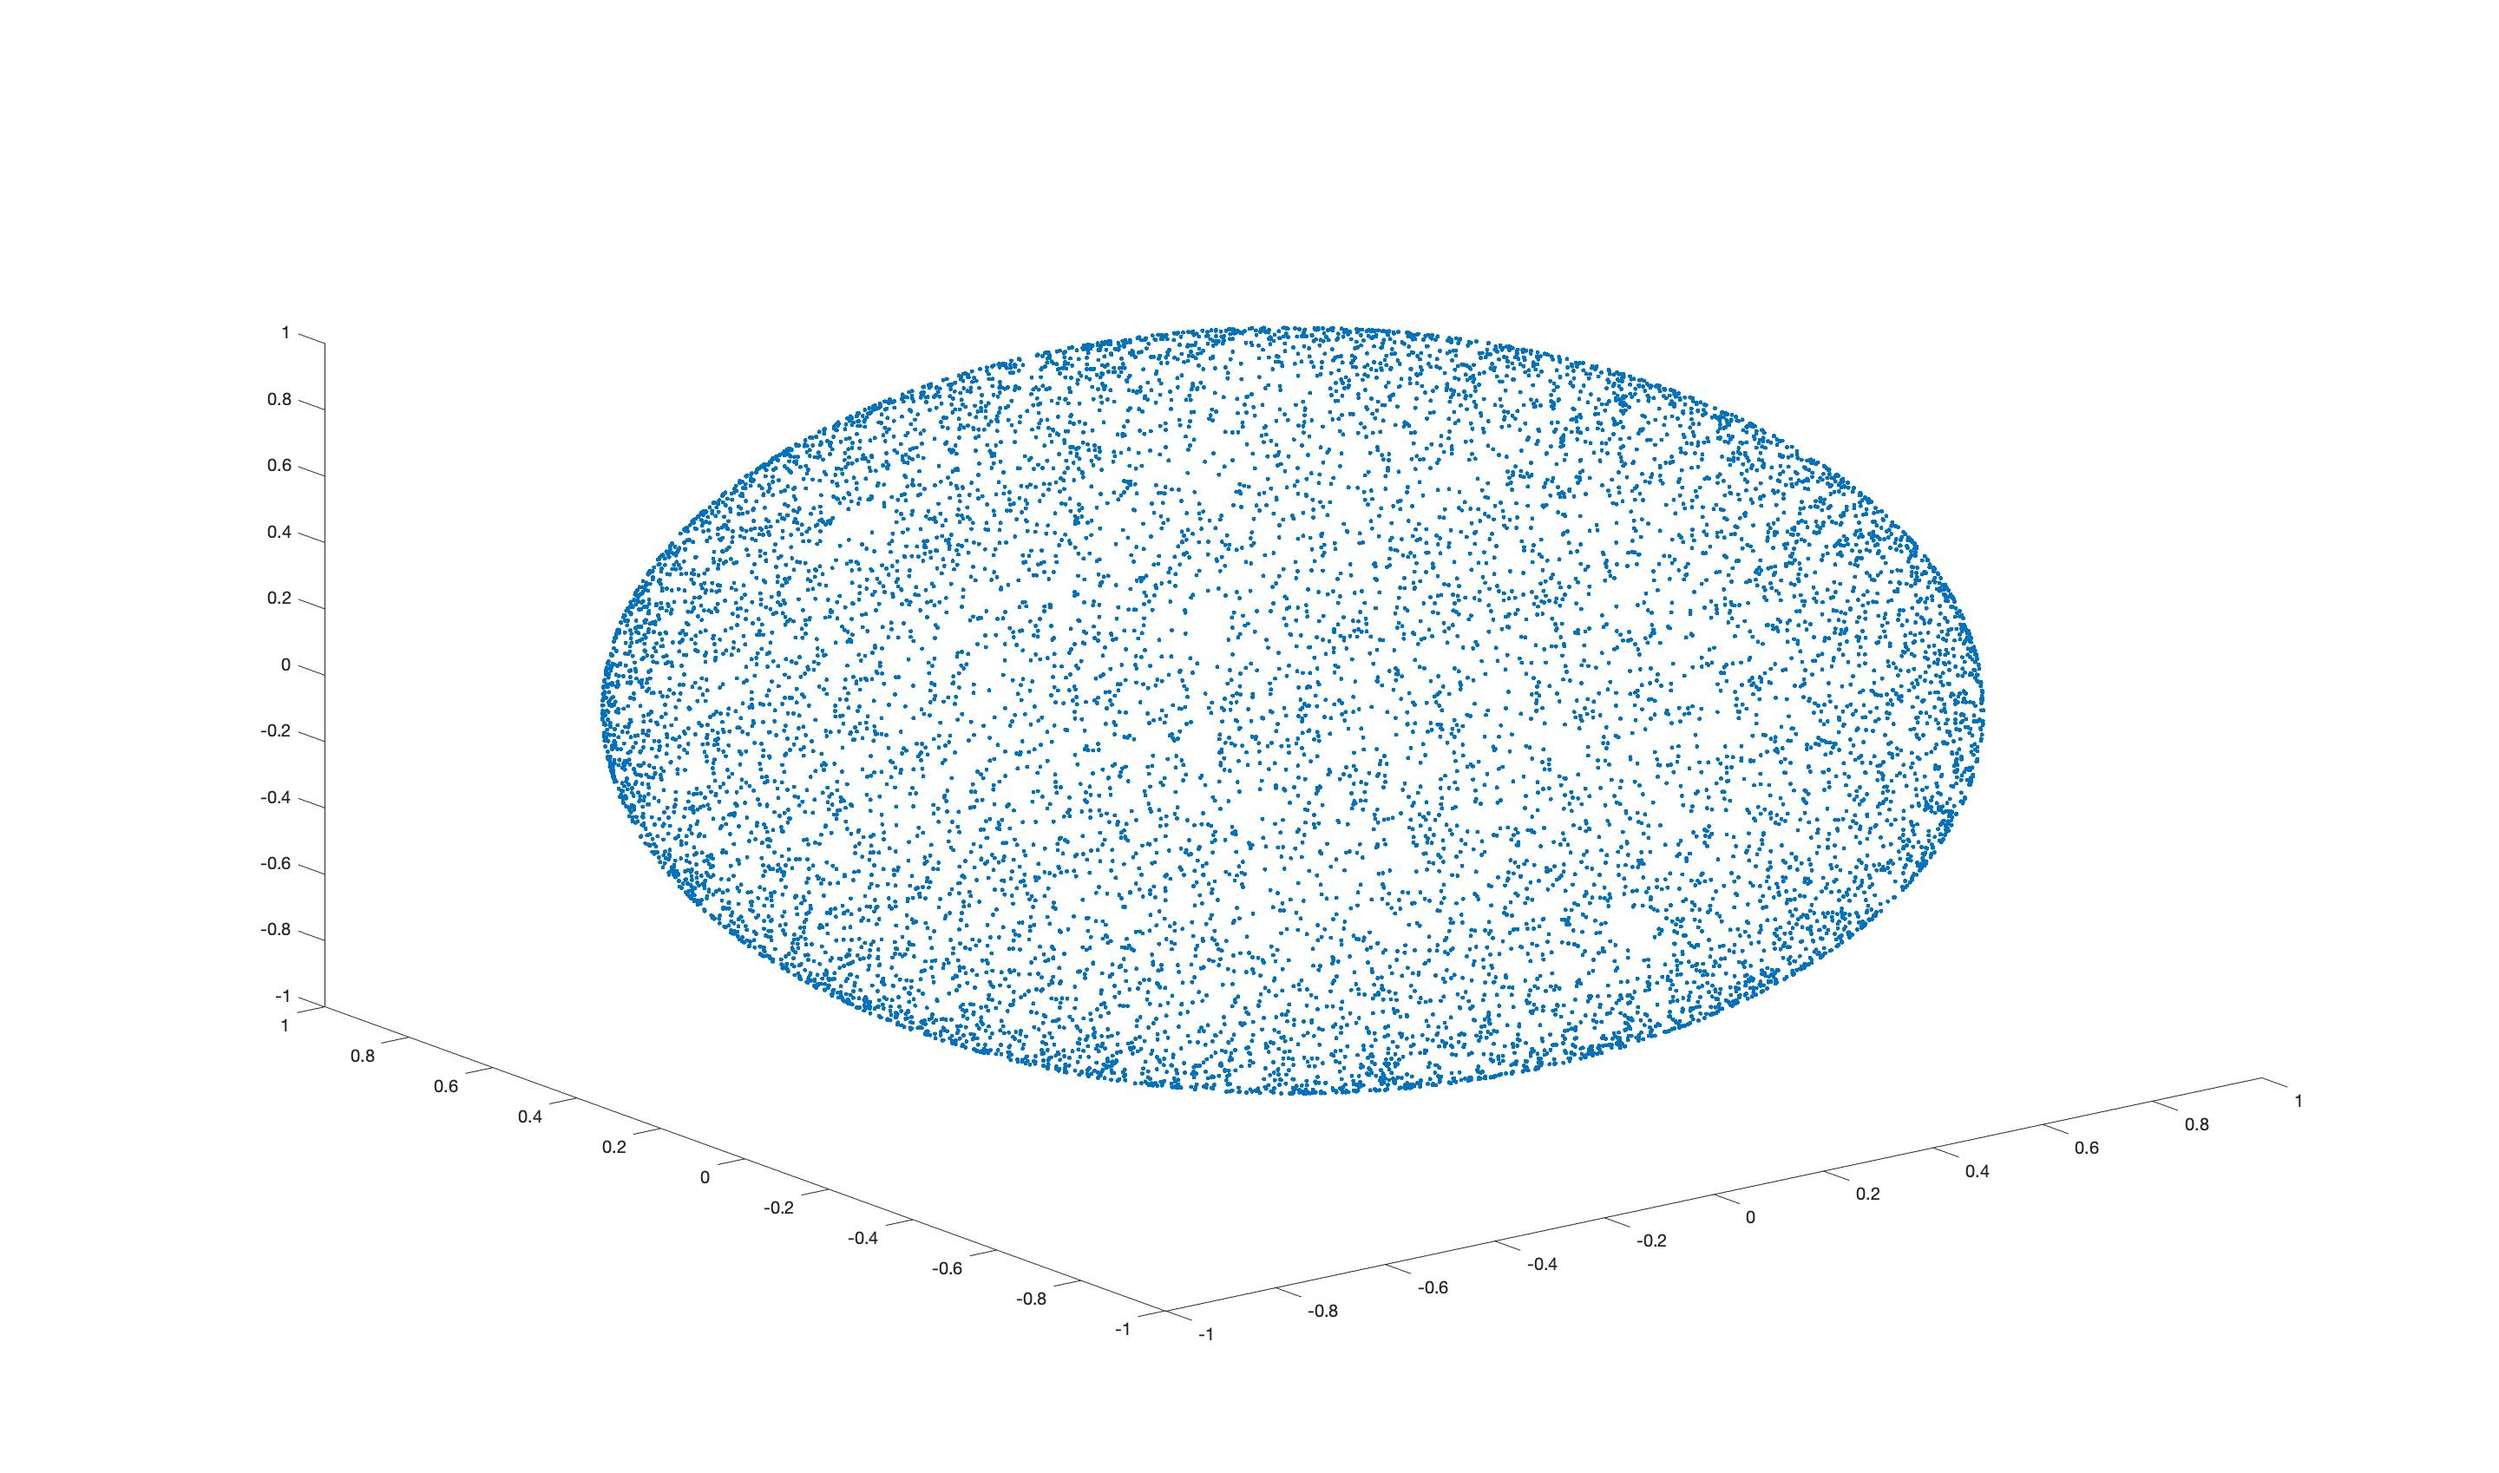
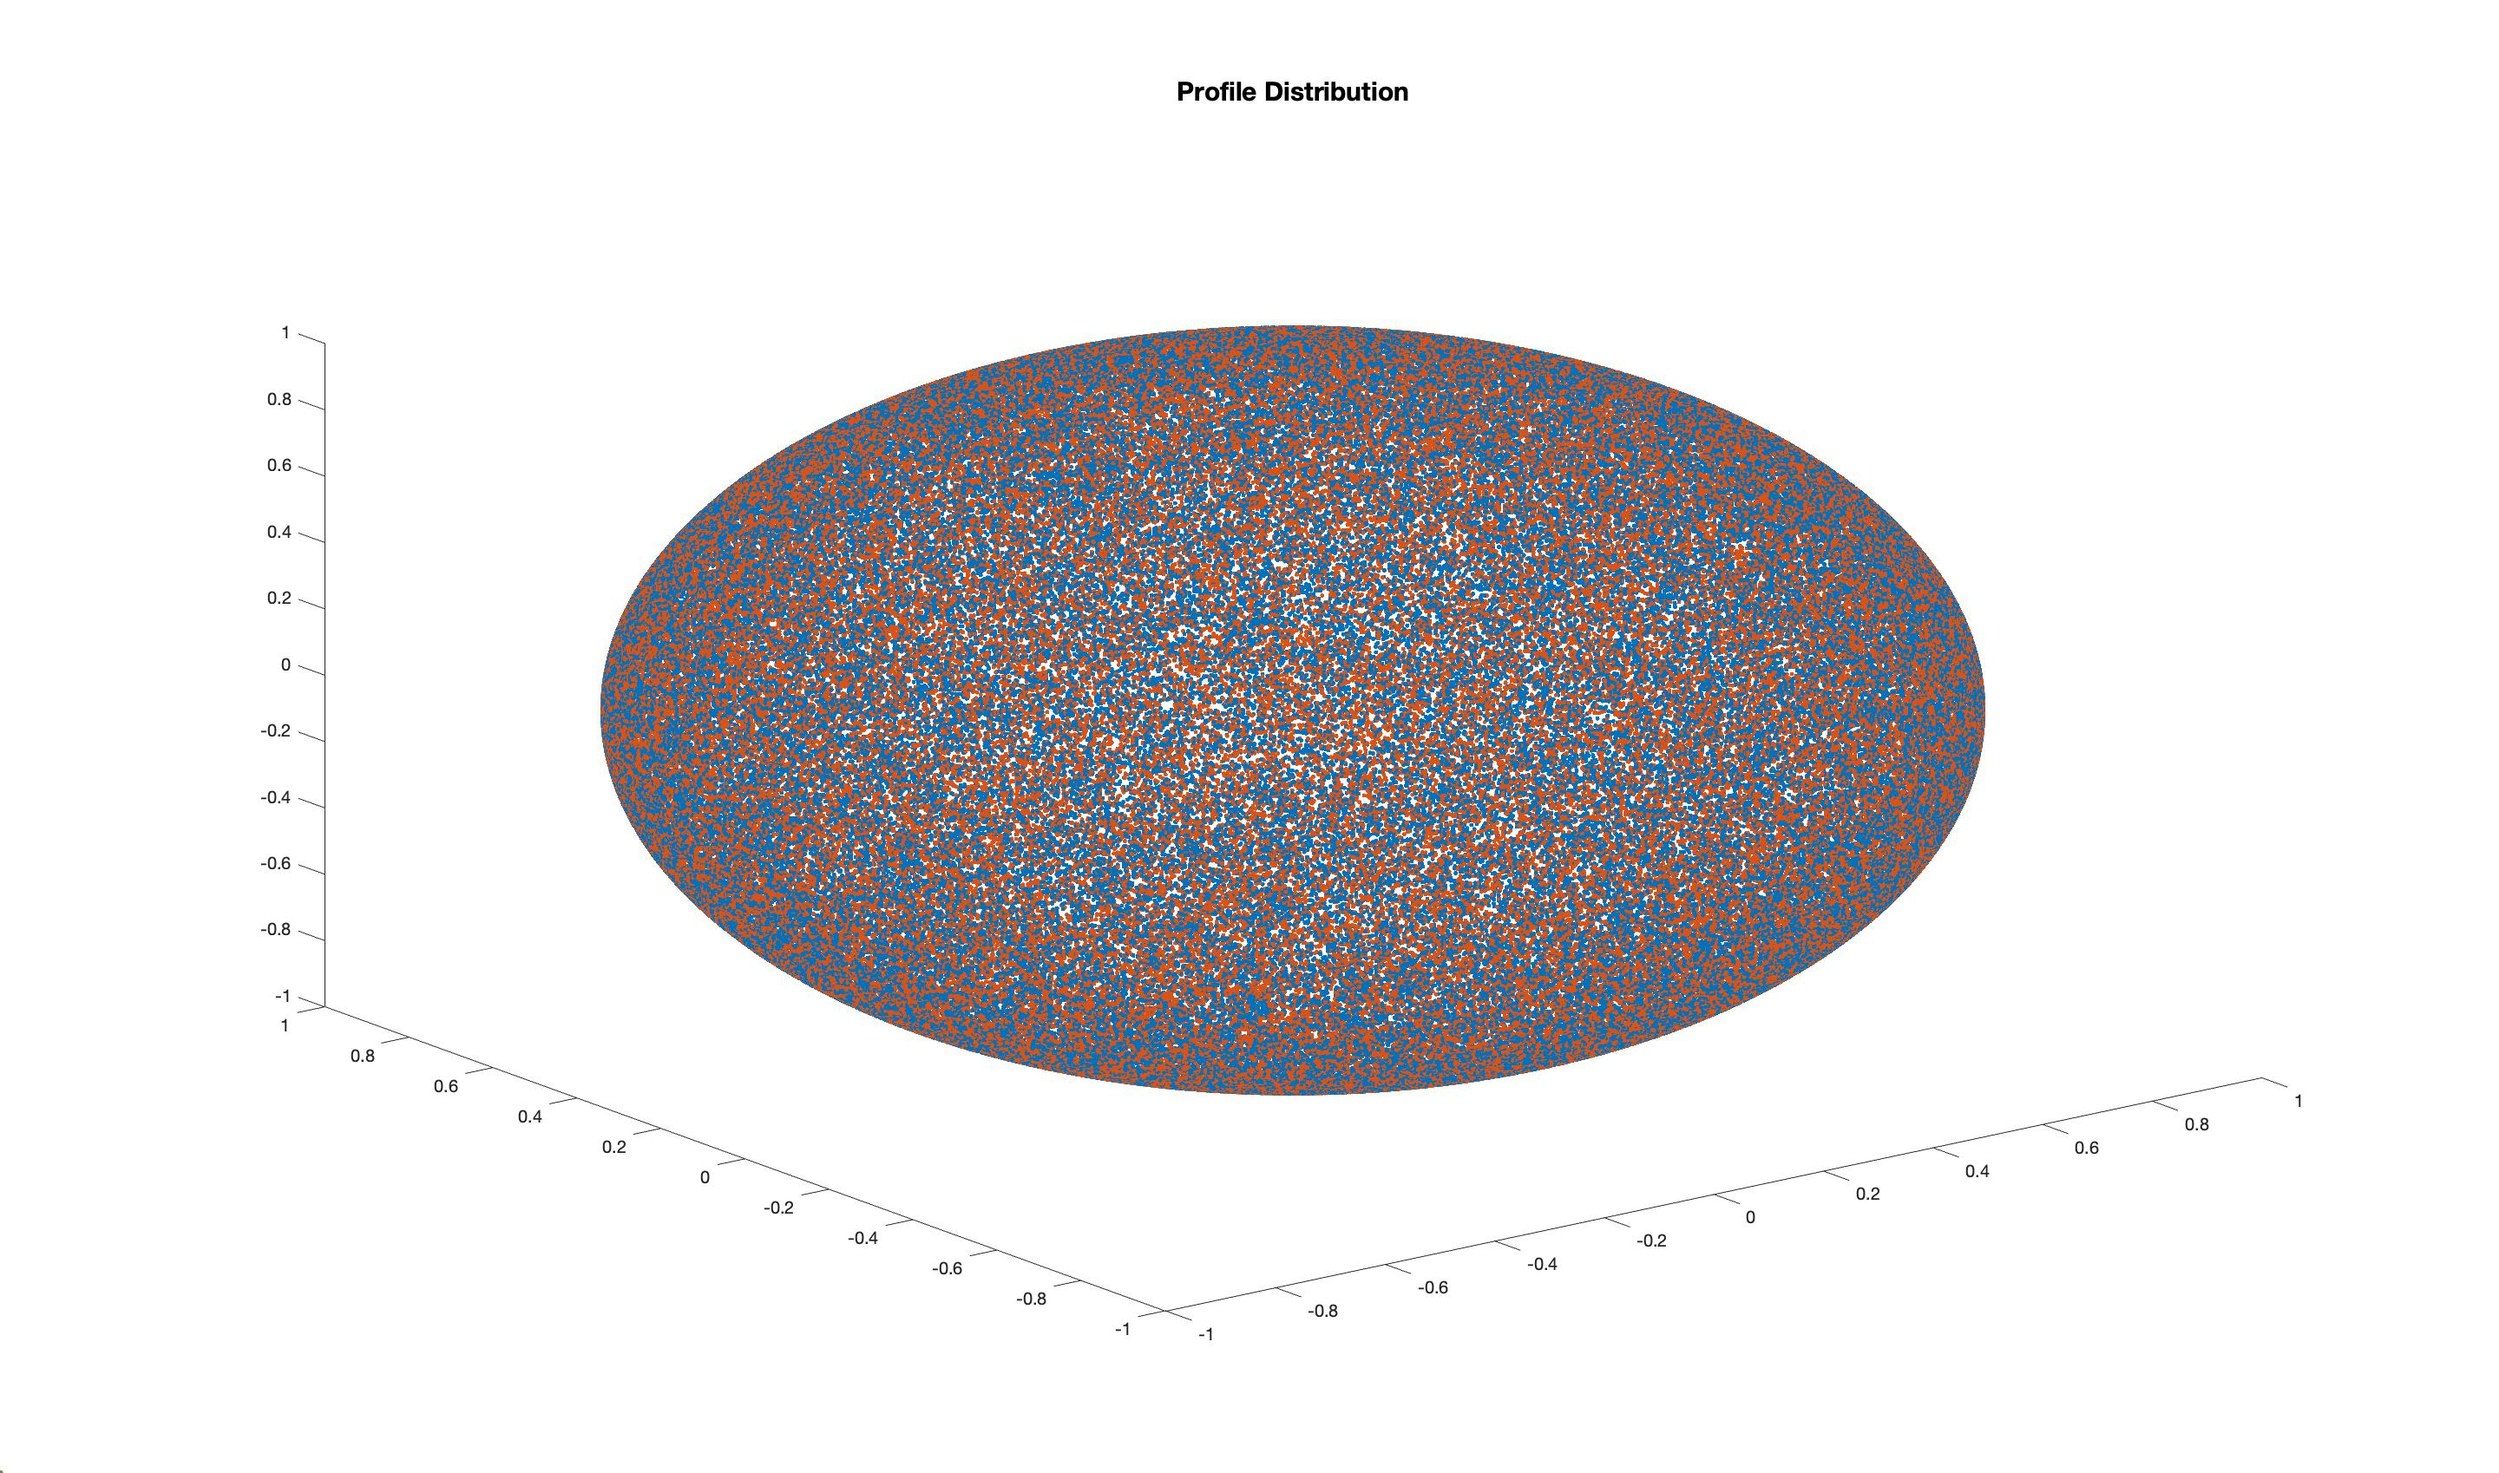
Add files via upload

Changed region(s): [[0.2188, 0.2185, 0.8125, 0.7491], [0.4688, 0.0312, 0.5625, 0.0936]]

diff --git a/MCLSphere/SphereMCL.m b/MCLSphere/SphereMCL.m
@@ -21,15 +21,19 @@ for z = 1 : n
     [x1,y1,z1] = SphereGenerator(radius);
     chordL = ChordLength(x0,y0,z0,x1,y1,z1);
     mclArray(end+1) = chordL;
+    x0Array(end + 1) = x0;
+    y0Array(end + 1) = y0;
+    z0Array(end + 1) = z0;
     x1Array(end + 1) = x1;
     y1Array(end + 1) = y1;
     z1Array(end + 1) = z1;
 end
 mu = mean(mclArray)
-sigma = std(mclArray);
+sigma = std(mclArray)
 
 figure(1)
-plot3(x1Array,y1Array,z1Array,'.')
+plot3(x0Array,y0Array,z0Array,'.',x1Array,y1Array,z1Array,'.')
+title('Profile Distribution', 'FontSize', 15);
 
 figure(2)
 a = histogram(mclArray,100)
